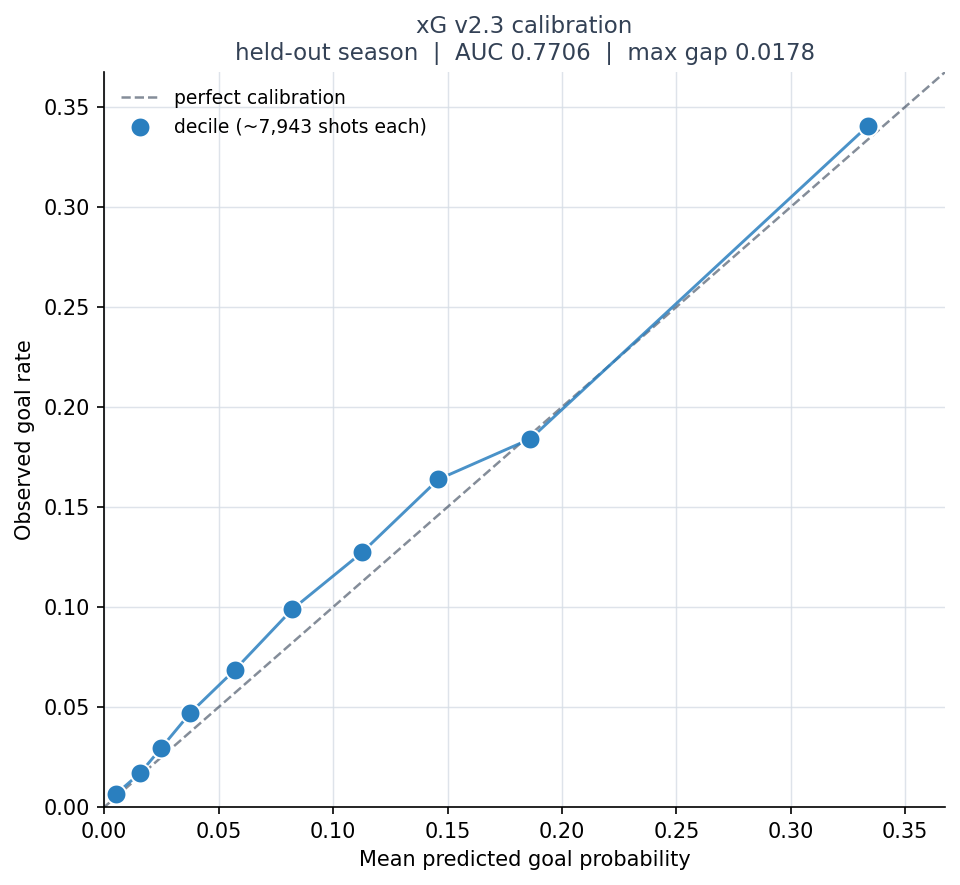
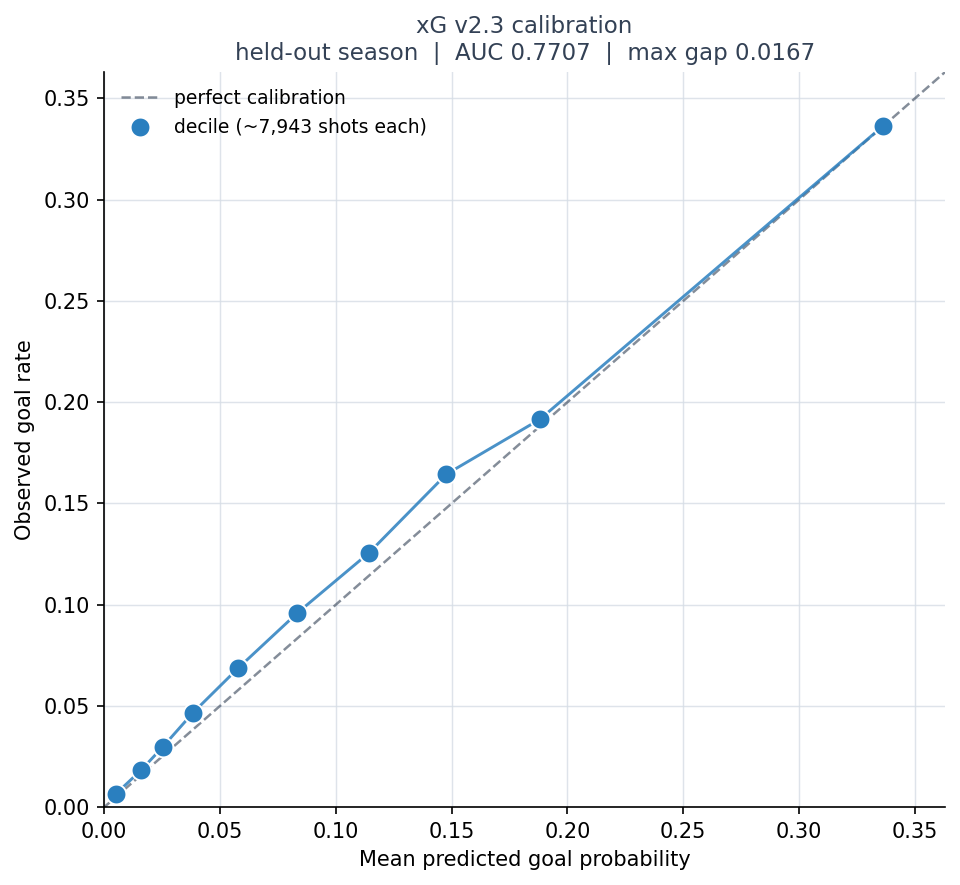
leaderboard

diff --git a/results/leaderboard.md b/results/leaderboard.md
@@ -18,8 +18,8 @@ Trained and scored on shots on goal, including regular-season shootout attempts 
 |---|---|---|---|---|---|---|---|---|
 | **v1** | 0.7705 | 0.3455 | 0.2877 | 0.0836 | 0.0244 | — | — | `95f0dd0` |
 | **v2.2** | 0.7666 | 0.3425 | 0.2897 | 0.0839 | 0.0188 | — | — | `95f0dd0` |
-| **v2.3** | 0.7706 | 0.3468 | 0.2877 | 0.0835 | 0.0178 | — | — | `463bf4f` |
-| **v2.3** | 0.7706 | 0.3468 | 0.2877 | 0.0835 | 0.0178 | — | — | `463bf4f` |
+| **v2.3** | 0.7707 | 0.3449 | 0.2877 | 0.0836 | 0.0167 | — | — | `ae901b0` |
+| **v2.3-prepatch** | 0.7706 | 0.3468 | 0.2877 | 0.0835 | 0.0178 | — | — | `463bf4f` |
 
 ## Unblocked attempts (Fenwick)
 
@@ -35,4 +35,4 @@ Shots on goal plus missed shots. Shootout attempts are excluded, as are events l
 - **v1-fenwick** — v1 features and hyperparameters retrained on unblocked attempts (shot_features_fenwick). Removes the 2023-24 on-goal relabel from the target population.
 - **v2.2** — v1 architecture plus a static per-player shooter prior from skater_priors_train, pooled across the training seasons and applied to every shot regardless of date. Stops the v2/v2.1 leakage but the prior is stale.
 - **v2.3** — v1 architecture plus an expanding-window shooter prior (trailing 2-year window, resolved per player per game-date). Fixes the leakage and staleness introduced by the season-pooled priors in v2 and v2.2.
-- **v2.3** — v1 architecture plus an expanding-window shooter prior (trailing 2-year window, resolved per player per game-date). Fixes the leakage and staleness introduced by the season-pooled priors in v2 and v2.2.
+- **v2.3-prepatch** — v1 architecture plus an expanding-window shooter prior (trailing 2-year window, resolved per player per game-date). Fixes the leakage and staleness introduced by the season-pooled priors in v2 and v2.2.
